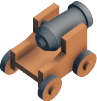
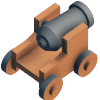
Player cannon moving and centering improved

diff --git a/src/components/Game/Objects/Player.js b/src/components/Game/Objects/Player.js
@@ -64,6 +64,7 @@ class Player extends GameObject {
         dist = (this.targetX - this.x < 10 ? this.targetX - this.x : 10);
         this.moveRight(dist);
       }
+
       if (this.targetY < this.y) {
         dist = (this.y - this.targetY < 10 ? this.y - this.targetY : 10);
         this.moveUp(dist);
@@ -152,7 +153,7 @@ class Player extends GameObject {
       }
     }*/
     // draw ship bg
-    this.context.drawImage(this.getPlayerCannonSprite(), this.x, this.y, this.width, this.height);
+    this.context.drawImage(this.getPlayerCannonSprite(), this.x - this.width/2, this.y - this.height/2, this.width, this.height);
     // if ship was destroyed, play three complete explosion animations
     /*if (this.destroyed === true && this.explosions.length > 0) {
       this.explosions[0].moveToX(this.x + (this.explosions.length === 2 ? 30 : (this.explosions.length * 15)));

diff --git a/assets/css/styles.css b/assets/css/styles.css
@@ -71,7 +71,6 @@ canvas {
   display: block;
   background-color: #d9cc97;
   border-radius: 50px;
-  border: 15px solid #6c3;
   box-shadow: -1px 0px 15px 5px #399529;
 }
 
